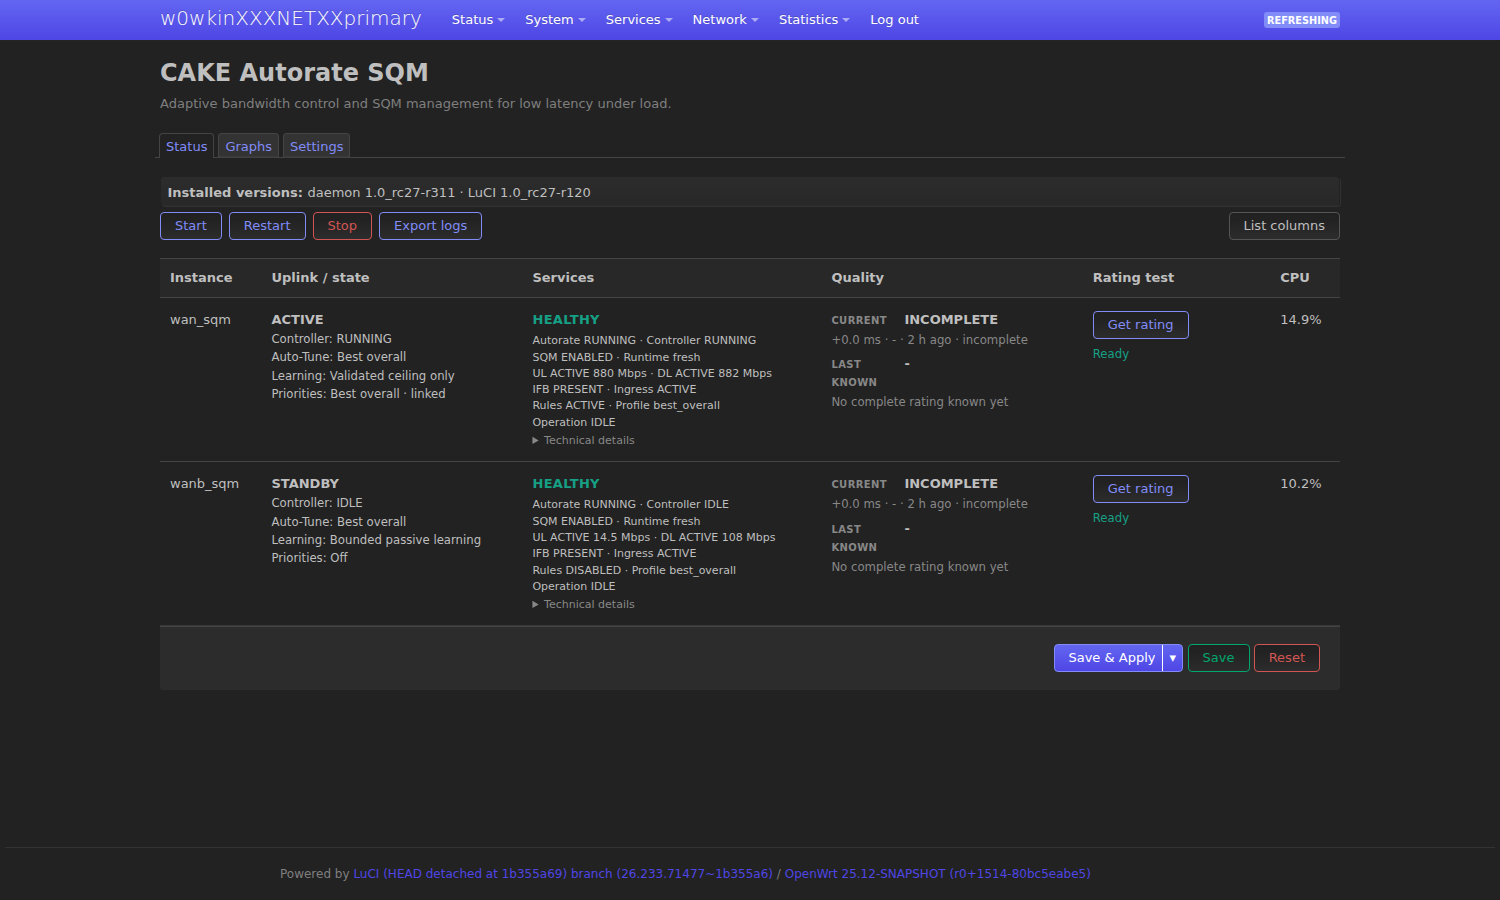
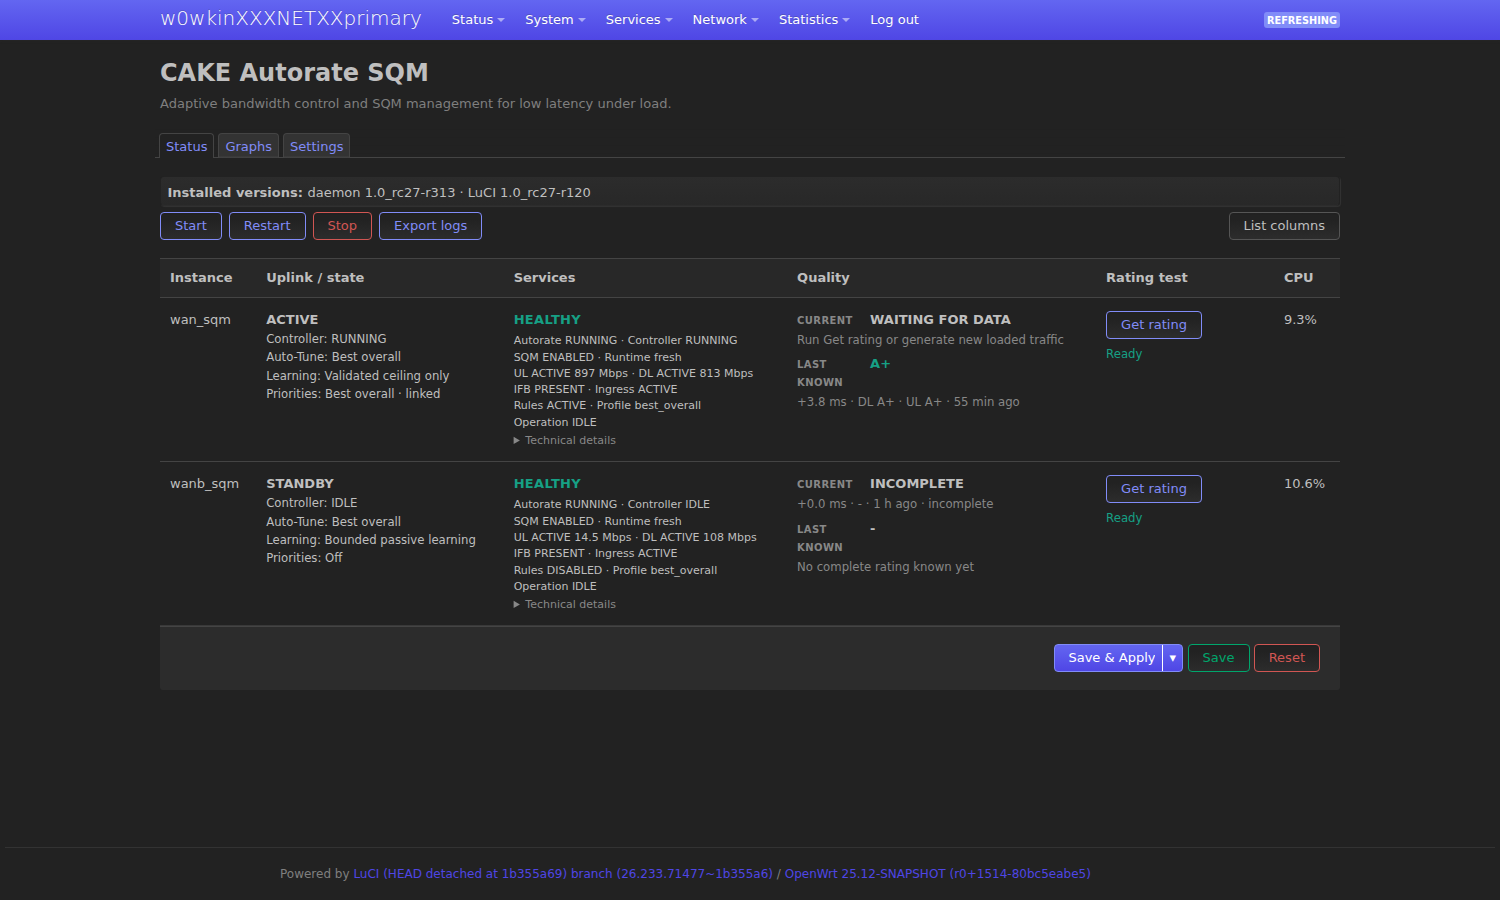
release: fix Full and Lite installation sequencing

diff --git a/package/luci-app-cake-autorate-rs/tests/package-postinst.test.js b/package/luci-app-cake-autorate-rs/tests/package-postinst.test.js
@@ -77,6 +77,7 @@ const luciPostinst = makeDefine(makefile, 'Package/luci-app-cake-autorate-rs/pos
 const daemonDefaults = makeDefine(daemonMakefile, 'Package/cake-autorate-rs/Default');
 const daemonFull = makeDefine(daemonMakefile, 'Package/cake-autorate-rs');
 const daemonLite = makeDefine(daemonMakefile, 'Package/cake-autorate-rs-lite');
+const daemonPostinst = makeDefine(daemonMakefile, 'Package/cake-autorate-rs/postinst');
 const daemonDefaultInstall = makeDefine(daemonMakefile,
 	'Package/cake-autorate-rs/install/Default');
 const daemonFullInstall = makeDefine(daemonMakefile, 'Package/cake-autorate-rs/install');
@@ -227,18 +228,32 @@ assert.doesNotMatch(autotuneInit, /--help 2>&1 \| grep/,
 assert.doesNotMatch(daemonMakefile,
 	/files\/etc\/uci-defaults\/99-cake-autorate-rs-scheduler-engine/,
 	'the final package must not install the retired scheduler ownership seed');
-const daemonUpgradeNativeApply = daemonMakefile.indexOf('--native-apply-recover');
-const daemonUpgradeRestart = daemonMakefile.indexOf(
+const daemonUpgradeNativeApply = daemonPostinst.indexOf('--native-apply-recover');
+const daemonUpgradeRestart = daemonPostinst.indexOf(
 	'PKG_UPGRADE=0 /etc/init.d/cake-autorate restart');
-const daemonUpgradeCalibrationStop = daemonMakefile.indexOf(
+const daemonFreshMainReadiness = daemonPostinst.indexOf(
+	'/usr/sbin/cake-autorated --service-lifecycle confirm-started');
+const daemonUpgradeCalibrationStop = daemonPostinst.indexOf(
 	'/etc/init.d/cake-autorate-autotune stop >/dev/null 2>&1 || exit 1');
-const daemonCalibrationStart = daemonMakefile.indexOf(
+const daemonFreshCalibrationStop = daemonPostinst.indexOf(
+	'/etc/init.d/cake-autorate-autotune stop >/dev/null 2>&1 || exit 1',
+	daemonFreshMainReadiness);
+const daemonCalibrationStart = daemonPostinst.indexOf(
 	'/etc/init.d/cake-autorate-autotune start >/dev/null 2>&1 || exit 1');
 assert(daemonUpgradeCalibrationStop >= 0 &&
 	daemonUpgradeCalibrationStop < daemonUpgradeNativeApply &&
 	daemonUpgradeNativeApply < daemonUpgradeRestart &&
-	daemonUpgradeRestart < daemonCalibrationStart,
+	daemonUpgradeRestart < daemonFreshMainReadiness &&
+	daemonFreshMainReadiness < daemonFreshCalibrationStop &&
+	daemonFreshCalibrationStop < daemonCalibrationStart,
 	'an in-place Full daemon upgrade must stop calibration before native recovery and the main restart');
+assert.match(daemonPostinst,
+	/PKG_UPGRADE=0 \/etc\/init\.d\/cake-autorate restart[\s\S]*?\telse[\s\S]*?--service-lifecycle confirm-started[\s\S]*?cake-autorate-autotune stop[\s\S]*?\tfi;[\s\S]*?cake-autorate-autotune enable/,
+	'a fresh or Lite-to-Full install must attest main readiness and settle default calibration before starting one coordinator');
+assert.equal((daemonPostinst.match(/--service-lifecycle confirm-started/g) || []).length, 1,
+	'the package hook must add one fresh-install barrier without duplicating upgrade readiness');
+assert.equal((daemonPostinst.match(/cake-autorate-autotune stop/g) || []).length, 2,
+	'the package hook must settle calibration once in each mutually exclusive install branch');
 assert.match(daemonInitTemplate, /service_started\(\)/,
 	'the main restart must own its event-driven controller readiness gate');
 assert.match(daemonMakefile,

diff --git a/README.md b/README.md
@@ -42,11 +42,11 @@ project ownership and responsibility remain with the human author.
 - [Controller mathematics](ALGORITHM_MATH.md) describes rate measurement,
   delay baselines, bufferbloat detection, the fast rate controller, and the
   bounded adaptive-ceiling state machine with formulas and examples.
-- [Testing and observed results](TESTING.md) starts with the current r311/r120
+- [Testing and observed results](TESTING.md) starts with the current r313/r120
   acceptance contract, then retains older RC sections as an explicitly
   historical engineering chronology.
 - [Release history](RELEASE_HISTORY.md) lists superseded source tags and their
-  milestones. Only the current r311/r120 Release remains a supported download.
+  milestones. Only the current r313/r120 Release remains a supported download.
 - [Bounded probe ceiling](ADAPTIVE_CEILING.md) is the concise state-machine and
   safety-invariant reference for the optional outer controller.
 - [Full Auto-Tune](AUTOTUNE.md) documents the native calibration job,
@@ -298,12 +298,12 @@ The RC27 release builds the OpenWrt 25.12 daemon APK for this ABI matrix:
 The target is an APK ABI rather than one specific board. The authoritative
 choice is the value returned by `apk --print-arch`. Every full daemon asset
 follows the name
-`cake-autorate-rs-1.0_rc27-r311_openwrt-25.12_<arch>.apk`; the shared
+`cake-autorate-rs-1.0_rc27-r313_openwrt-25.12_<arch>.apk`; the shared
 `luci-app-cake-autorate-rs-1.0_rc27-r120.apk` contains the
 architecture-independent full LuCI interface and SQM integration.
 
 The same release also contains a separately compiled **Lite** pair for every
-ABI: `cake-autorate-rs-lite-1.0_rc27-r311_...apk` and
+ABI: `cake-autorate-rs-lite-1.0_rc27-r313_...apk` and
 `luci-app-cake-autorate-rs-lite-1.0_rc27-r4.apk`. Lite keeps the manual
 controller, routing, latency probes, directional SQM and bounded adaptive
 ceiling, but deliberately omits Get rating, speed-test calibration, Full
@@ -312,7 +312,7 @@ install both packages from one pair, never mix a Full daemon with Lite LuCI or
 the other way around.
 
 The accepted release is
-[`v1.0-rc27-r311-r120`](https://github.com/woffko/cake-autorate-rs-owrt/releases/tag/v1.0-rc27-r311-r120):
+[`v1.0-rc27-r313-r120`](https://github.com/woffko/cake-autorate-rs-owrt/releases/tag/v1.0-rc27-r313-r120):
 24 architecture-specific daemon APKs, the Full and Lite noarch LuCI APKs,
 `SHA256SUMS`, and machine-readable matrix/release manifests. The published
 Lite daemon APK is about 79% smaller than Full on average across the matrix;
@@ -414,8 +414,8 @@ representative examples rather than guarantees.
 
 ## Current release
 
-This release is **RC27 r311/r120**: daemon package r311 and Full LuCI package
-r120, with the parallel manual-only Lite pair r311/r4. It retains the complete
+This release is **RC27 r313/r120**: daemon package r313 and Full LuCI package
+r120, with the parallel manual-only Lite pair r313/r4. It retains the complete
 two-direction Rating authority, truthful staged Auto-Tune progress, a ranked
 four-option Review including the measured mobile download-bypass topology, one
 aggregate trade-off confirmation, and an Apply flow which verifies the runtime
@@ -445,6 +445,15 @@ instead of retaining a cumulative RC diary. Superseded milestones remain in
 [Release history](RELEASE_HISTORY.md) and git tags, while
 [GitHub Releases](https://github.com/woffko/cake-autorate-rs-owrt/releases)
 contains only the current downloadable build.
+
+r313 additionally fixes fresh Full installation and Lite-to-Full replacement.
+After OpenWrt's default package hook returns, the Full package now re-attests
+the main controller, stops and settles any calibration instance that the
+default hook already started, then enables and starts exactly one coordinator.
+The in-place upgrade branch remains separate and performs no duplicate
+readiness confirmation. Exact Full → Lite → manual stop/save/start → Full
+testing now returns package status zero and restores the original UCI, services
+and both CAKE qdiscs byte-for-byte.
 
 ## Repository Layout
 
@@ -904,7 +913,7 @@ For example, when it prints `aarch64_generic`:
 
 ```sh
 apk add --allow-untrusted \
-  /root/cake-autorate-rs-1.0_rc27-r311_openwrt-25.12_aarch64_generic.apk \
+  /root/cake-autorate-rs-1.0_rc27-r313_openwrt-25.12_aarch64_generic.apk \
   /root/luci-app-cake-autorate-rs-1.0_rc27-r120.apk
 ```
 
@@ -912,7 +921,7 @@ For a small manual-only installation, use the matching Lite pair instead:
 
 ```sh
 apk add --allow-untrusted \
-  /root/cake-autorate-rs-lite-1.0_rc27-r311_openwrt-25.12_aarch64_generic.apk \
+  /root/cake-autorate-rs-lite-1.0_rc27-r313_openwrt-25.12_aarch64_generic.apk \
   /root/luci-app-cake-autorate-rs-lite-1.0_rc27-r4.apk
 ```
 

diff --git a/TESTING.md b/TESTING.md
@@ -7,8 +7,8 @@ universal benchmark.
 
 ## Current release acceptance
 
-The accepted public baseline is daemon r311, Full LuCI r120 and Lite LuCI r4
-at tag `v1.0-rc27-r311-r120`. The final source gate passed 1,263 Full and 111
+The accepted public baseline is daemon r313, Full LuCI r120 and Lite LuCI r4
+at tag `v1.0-rc27-r313-r120`. The final source gate passed 1,263 Full and 111
 Lite Rust tests, every retained OpenWrt bridge test, all Full/Lite LuCI
 JavaScript and TypeScript suites, formatting, syntax and diff checks. The
 release matrix contains 12 independently built Full daemons, 12 Lite daemons
@@ -84,7 +84,7 @@ For releases that publish an offline bundle, install it with networking
 disabled into an empty APK root and validate the redownloaded assets against
 the published checksums. Direct-APK releases instead verify the exact
 published APK hashes and install them through a router configured with
-compatible OpenWrt package feeds. The current r311/r120 release verifies
+compatible OpenWrt package feeds. The current r313/r120 release verifies
 the exact redownloaded APKs and manifests through compatible OpenWrt feeds.
 
 Current deterministic UI and calibration gates require a clean package config
@@ -2524,6 +2524,50 @@ SHA-256
[1 lines of base64/hex data omitted]
 the machine-readable matrix report has SHA-256
[1 lines of base64/hex data omitted]
+
+## RC27 r313/r120 Full/Lite package sequencing gate (2026-08-26)
+
+An exact post-release Full → Lite → Full test of the public r311 packages found
+one package-only defect: Lite itself installed and ran correctly, but returning
+to Full installed both packages and then returned exit 1 because the custom
+post-install hook raced OpenWrt's default calibration start. The original
+configuration and runtime were recoverable, but a normal user should not see a
+failed package transaction. r312 proved the main-controller readiness barrier
+but was rejected because a second calibration start could still conflict with
+the default-started coordinator.
+
+r313 keeps the in-place upgrade path unchanged. On a fresh Full install or
+Lite-to-Full switch it first confirms the default-started main controller,
+stops and settles any default-started or partial calibration instance, and
+then starts one authoritative coordinator. Structural tests require the two
+mutually exclusive stop paths, one fresh-install readiness barrier, and no
+duplicate upgrade confirmation. Source gate
+`3a1142ab514f4cdaad39c40cd7fbf862` passes 1,263 Full and 111 Lite Rust tests
+plus every retained shell, JavaScript, TypeScript, syntax, format and diff gate.
+
+The two-ABI package preflight `ba35b924199d4045b42fde75be359185`
+clean-built and inspected Full/Lite x86_64 and aarch64_generic plus Full LuCI
+r120 and Lite LuCI r4. On the disposable VM, gate
+`4cbcf49d4aeb46509126e75c8f2b82ed` installed Lite, proved the calibration
+surface absent, performed a manual stop/save/start at 19 Mbit/s, restored Full
+with `apk add` status zero, and restored the original 20/21.202-Mbit/s configs,
+services, coordinator and qdiscs exactly.
+
+No-traffic r313 upgrades preserved exact configuration and runtime topology on
+both x86_64 Multi-WAN routers and the aarch64 upload-only cellular router.
+Cache-disabled desktop/mobile Status, Graphs, Settings, Re-run Cancel and Edit
+passed under Longruns `0e36140679b94e2f8740914a09968cfb`,
+`bd6c765b22dc4b489116e9ee9a9fed0f`, and
+`f3ff51696b96485e95dcbadac7811ca8`.
+
+Final matrix Longrun `1b7362dbfb274ae0881b2e4bb96f3b51` rebuilt 12 Full
+r313 daemons, 12 independently compiled Lite r313 daemons, Full LuCI r120 and
+Lite LuCI r4. All 26 APKs passed source parity, signature, metadata,
+dependency/provider, payload/mode, feature-separation and ELF/ABI validation.
+`SHA256SUMS` SHA-256 is
[1 lines of base64/hex data omitted]
+`matrix-report.json` SHA-256 is
[1 lines of base64/hex data omitted]
 
 ## RC27 r311/r120 exact Apply and readiness gate (2026-08-26)
 

diff --git a/RELEASE_HISTORY.md b/RELEASE_HISTORY.md
@@ -1,8 +1,8 @@
 # Release history
 
 The only supported downloadable build is
-[`v1.0-rc27-r311-r120`](https://github.com/woffko/cake-autorate-rs-owrt/releases/tag/v1.0-rc27-r311-r120).
-It contains daemon r311, Full LuCI r120, the manual-only Lite r311/r4 pair, the
+[`v1.0-rc27-r313-r120`](https://github.com/woffko/cake-autorate-rs-owrt/releases/tag/v1.0-rc27-r313-r120).
+It contains daemon r313, Full LuCI r120, the manual-only Lite r313/r4 pair, the
 12-ABI package matrix, checksums, and machine-readable release manifests.
 
 Older release candidates are retained as source tags and engineering history,
@@ -19,6 +19,7 @@ Do not install or mix packages from the historical tags below.
 | `v1.0-rc27-r249-r97` | 2026-08-15 | Corrected native Rating, directional Review, and manual-only Lite release line. |
 | `v1.0-rc27-r250-r98` | 2026-08-15 | Post-migration cleanup and Re-run correctness checkpoint. |
 | `v1.0-rc27-r306-r120` | 2026-08-21 | Completed the Rust migration, Rating identity work, 12-ABI Full/Lite matrix and public-history sanitization. |
+| `v1.0-rc27-r311-r120` | 2026-08-26 | Added exact Apply write-ahead recovery and post-lock readiness; superseded by r313 Full/Lite install sequencing. |
 
 These entries are preserved by their git tags. The current release includes
 all accepted functionality from them plus later identity, recovery,

diff --git a/AUTOTUNE.md b/AUTOTUNE.md
@@ -805,7 +805,7 @@ JavaScript/TypeScript tests validate public schemas, option-specific
 acknowledgements, current-job adoption and fresh Settings reload. Real-router
 acceptance additionally checks per-member route identity and that the
 unselected autorate/SQM instance continues running. See [Testing](TESTING.md)
-for the accepted r311/r120 matrix and historical chronology.
+for the accepted r313/r120 matrix and historical chronology.
 
 ## Optional scheduler
 
